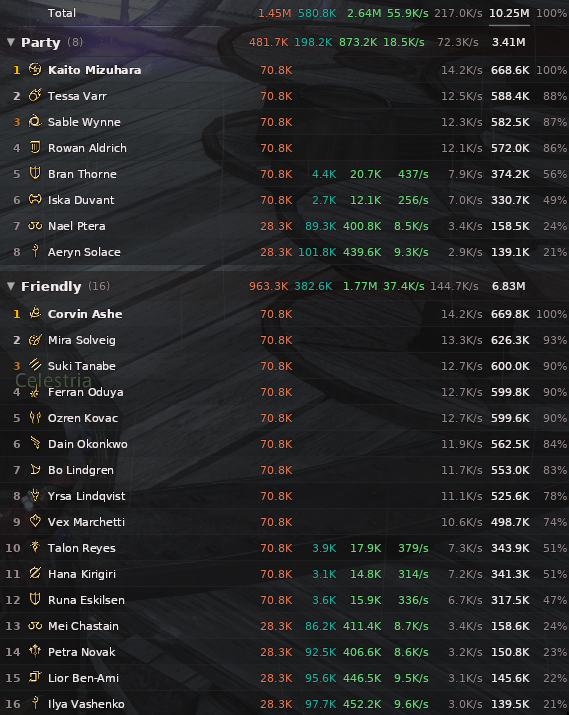
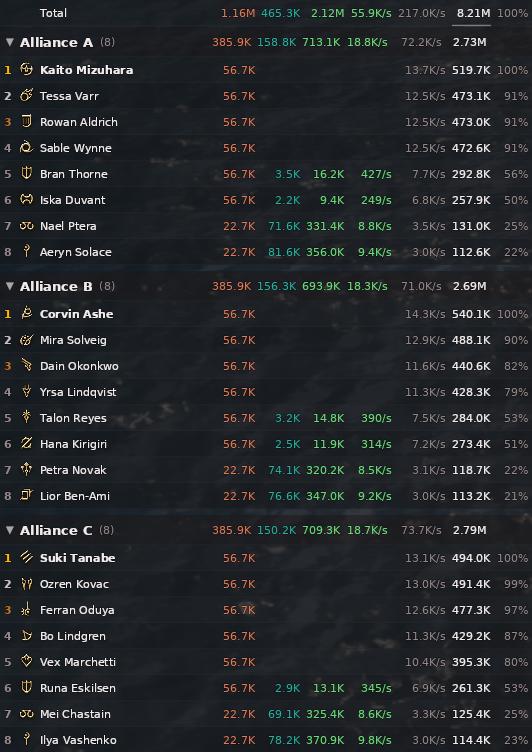
feat: label your own alliance, split by alliance by default

diff --git a/src/Windows/MainWindow.cs b/src/Windows/MainWindow.cs
@@ -196,9 +196,27 @@ public sealed class MainWindow : IDisposable
             var friendly = _frameSession.GetSortedByType(metric, CombatantType.FriendlyPlayer);
             var enemies  = _frameSession.GetSortedByType(metric, CombatantType.Enemy);
 
-            if (party.Count    > 0) groups.Add(new MeterCanvas.GroupData { Label = "Party",    Combatants = party,    Accent = MeterCanvas.GroupAccent(CombatantType.PartyMember) });
-            bool showFriendly = Config.ShowFriendlyGroup || Config.DemoCombatants > 0;
-            if (friendly.Count > 0 && showFriendly)
+            if (party.Count > 0)
+            {
+                // When the other alliances are named A/B/C, calling your own
+                // group "Party" hides the one label you actually want: which of
+                // them you are standing in.
+                int own = Config.GroupByAlliance ? CombatTracker.GetOwnAllianceIndex() : -1;
+                if (own < 0 && Config.GroupByAlliance && Config.DemoCombatants > 0)
+                    own = 0;   // the preview's own party is alliance A by construction
+
+                groups.Add(new MeterCanvas.GroupData
+                {
+                    Label      = own >= 0 ? "Alliance " + (char)('A' + own) : "Party",
+                    Combatants = party,
+                    Accent     = MeterCanvas.GroupAccent(CombatantType.PartyMember),
+                });
+            }
+            // No preview bypass here. Ignoring the filter made the Alliance
+            // preset show 24 rows, but it also made unticking the filter do
+            // nothing — a preview that does not reflect your settings is worse
+            // than one that shows fewer rows.
+            if (friendly.Count > 0 && Config.ShowFriendlyGroup)
             {
                 if (Config.GroupByAlliance)
                 {

diff --git a/src/CombatTracker.cs b/src/CombatTracker.cs
@@ -1090,6 +1090,42 @@ public sealed class CombatTracker : IDisposable
         return -1;
     }
 
+    /// <summary>
+    /// Which alliance group the local player's own party occupies, or -1.
+    ///
+    /// Your own eight live in the party array, not the alliance array, so they
+    /// never turn up in GetAllianceIndex. The alliance array holds the *other*
+    /// groups — so the index yours occupies is simply the one missing from it.
+    /// </summary>
+    public static unsafe int GetOwnAllianceIndex()
+    {
+        var group = FFXIVClientStructs.FFXIV.Client.Game.Group.GroupManager
+                        .Instance()->GetGroup();
+        if (group == null || !group->IsAlliance) return -1;
+
+        int groups   = group->AllianceGroupIndexCount;
+        int perGroup = group->IsSmallGroupAlliance ? 4 : 8;
+
+        Span<bool> seen = stackalloc bool[groups];
+        for (int g = 0; g < groups; g++)
+        {
+            for (int i = 0; i < perGroup; i++)
+            {
+                var member = group->GetAllianceMemberByGroupAndIndex(g, i);
+                if (member != null && member->EntityId != 0) { seen[g] = true; break; }
+            }
+        }
+
+        int missing = -1;
+        for (int g = 0; g < groups; g++)
+        {
+            if (seen[g]) continue;
+            if (missing >= 0) return -1;   // more than one gap: cannot say which is ours
+            missing = g;
+        }
+        return missing;
+    }
+
     private CombatantType DetermineType(uint entityId, IGameObject obj)
     {
         if (obj is IPlayerCharacter)

diff --git a/src/Windows/SettingsWindow.cs b/src/Windows/SettingsWindow.cs
@@ -196,6 +196,16 @@ public sealed class SettingsWindow : IDisposable
             ImGui.TextColored(new Vector4(1f, 0.5f, 0.3f, 1f),
                 "Preview is active — the meter shows synthetic data, and every " +
                 "auto-hide rule is suspended so you can position it anywhere.");
+
+            // The presets past a full party are mostly non-party players, so
+            // with that filter off they render eight rows and look broken.
+            if (Config.DemoCombatants > 8 && !Config.ShowFriendlyGroup)
+            {
+                ImGui.TextColored(new Vector4(1f, 0.5f, 0.3f, 1f),
+                    "Only 8 rows will show: everyone past your party is a " +
+                    "non-party player, and \"Include friendly (non-party) " +
+                    "players\" is off under Filters.");
+            }
         }
     }
 

diff --git a/src/Configuration.cs b/src/Configuration.cs
@@ -146,7 +146,9 @@ public sealed class Configuration : IPluginConfiguration
     /// Split non-party players into their alliance groups instead of one
     /// "Friendly" lump. Only does anything in alliance content; elsewhere there
     /// are no alliances to split by.
-    public bool GroupByAlliance    { get; set; } = false;
+    /// On by default, so the moment friendly players are shown they arrive
+    /// already split rather than as one undifferentiated block.
+    public bool GroupByAlliance    { get; set; } = true;
     /// Drop the group header when there is only one group to head. With the
     /// other groups filtered out there is nothing to distinguish, so the header
     /// is a row of chrome labelling the obvious.

diff --git a/README.md b/README.md
@@ -22,9 +22,18 @@ Light party — the columns you enable, and nothing else:
 
 ![Light party](images/screenshots/light-party.png)
 
-Alliance raid, split into groups with per-group sums in the headers:
+Alliance raid — split into groups, each header carrying that group's sums, and
+your own party named by the alliance it is in rather than just "Party":
 
 ![Alliance raid](images/screenshots/alliance-raid.png)
+
+Crystalline Conflict:
+
+![Crystalline Conflict](images/screenshots/crystalline-conflict.png)
+
+Frontline, with groups past the visible ones collapsed:
+
+![Frontline](images/screenshots/frontline.png)
 
 </details>
 

diff --git a/CHANGELOG.md b/CHANGELOG.md
@@ -11,4 +11,3 @@
 #### Chores
 
 * pluginmaster 1.0.1 [skip ci] (940ca673)
-
